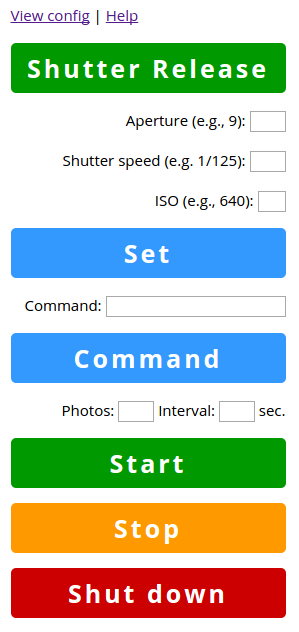
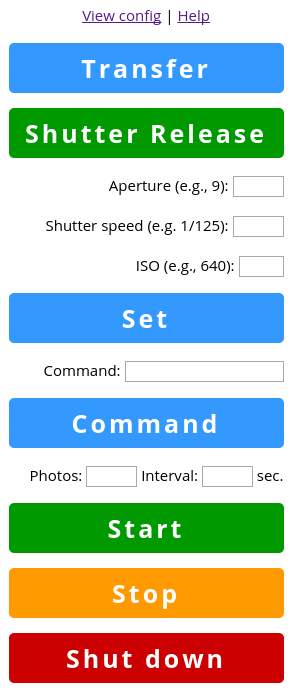
dn2820fykh-kubuntu

diff --git a/gphoto2-bottle.py b/gphoto2-bottle.py
@@ -139,6 +139,8 @@ def cablerelease():
 @route('/cablerelease')
 @route('/cablerelease', method='POST')
 def release_control():
+    if (request.POST.get("get-all-files")):
+        os.system('gphoto2 --get-all-files')
     if (request.POST.get("cable-release")):
         cablerelease()
     if (request.POST.get("start")):
